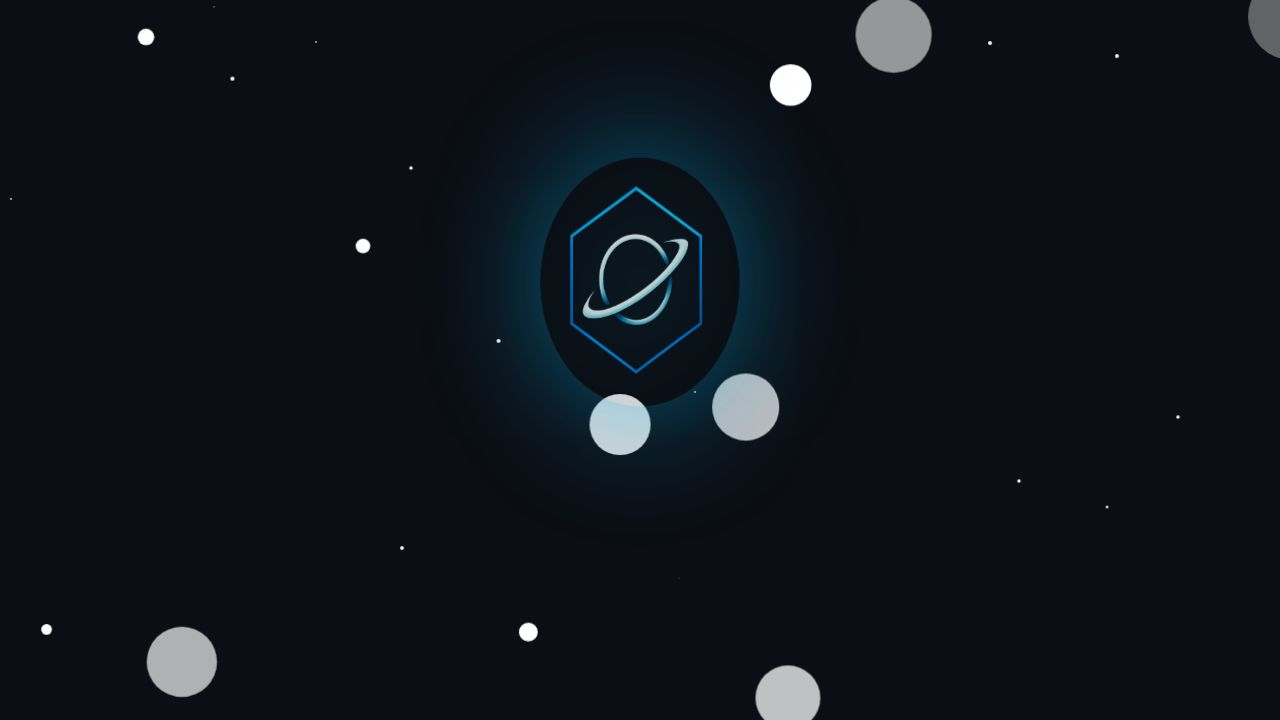
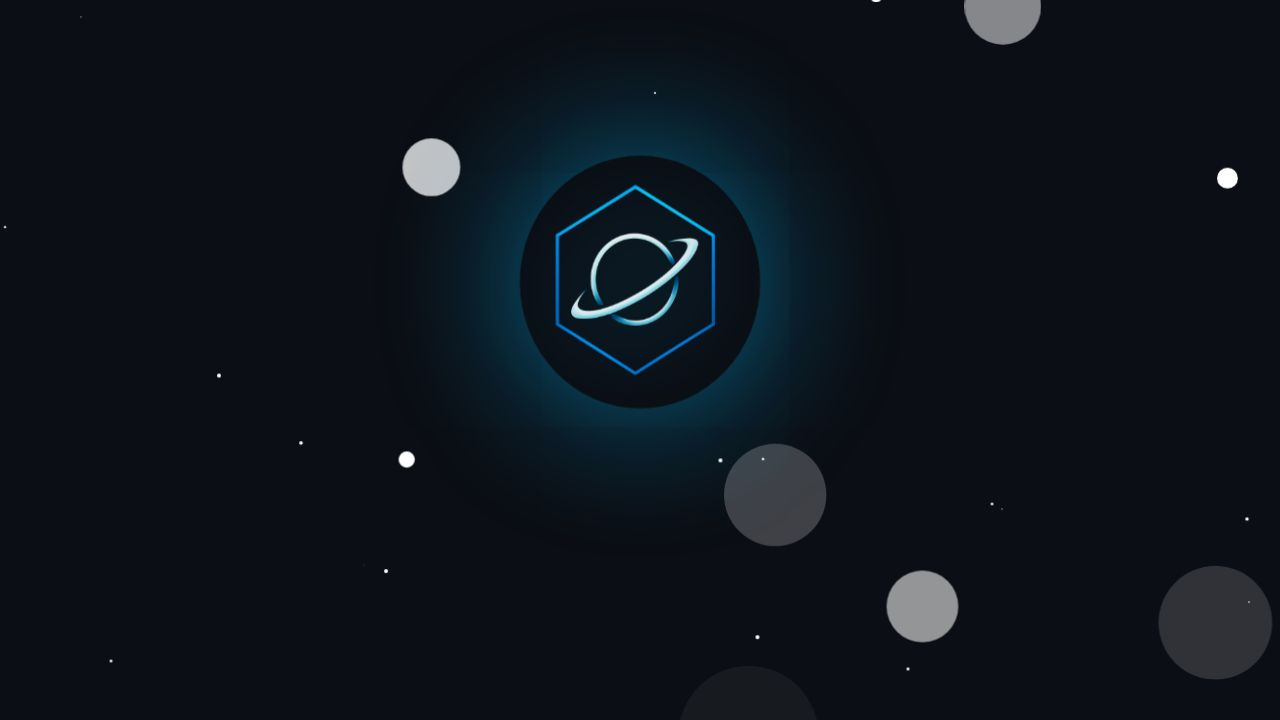
Enhance space game with varied obstacles, ship customizations, and improved controls
Refactor SpaceGame component to include randomized obstacles from 15 variants, custom ship colors, and optimized mouse reactivity.

Replit-Commit-Author: Agent
Replit-Commit-Session-Id: fbb635ff-35aa-4961-b565-d865ef3c1b3d
Replit-Commit-Checkpoint-Type: full_checkpoint
Replit-Commit-Event-Id: 4b2fb642-a194-4f26-9398-35119e59dca0
Replit-Commit-Screenshot-Url: https://storage.googleapis.com/screenshot-production-us-central1/d4f81865-4d0e-47a2-a652-d4a2a96cce49/fbb635ff-35aa-4961-b565-d865ef3c1b3d/PM9tNth
Replit-Helium-Checkpoint-Created: true

diff --git a/client/src/components/SpaceGame.tsx b/client/src/components/SpaceGame.tsx
@@ -1,31 +1,56 @@
 import { useState, useEffect, useRef, useCallback } from "react";
 import { motion, AnimatePresence } from "framer-motion";
-import { Gamepad2, Trophy, Send, List } from "lucide-react";
+import { Gamepad2, Trophy, Send } from "lucide-react";
 import { Button } from "@/components/ui/button";
 import { Link } from "wouter";
 
-interface Asteroid {
+interface Obstacle {
   id: number;
   x: number;
   y: number;
   size: number;
   speed: number;
+  variant: number;
 }
 
-interface Star {
-  x: number;
-  y: number;
-  speed: number;
-  size: number;
-}
+const SHIP_VARIANTS = [
+  { body: "#00BFFF", accent: "#0080FF", glow: "rgba(0,191,255,0.8)" },
+  { body: "#FF6B6B", accent: "#FF4444", glow: "rgba(255,107,107,0.8)" },
+  { body: "#4ADE80", accent: "#22C55E", glow: "rgba(74,222,128,0.8)" },
+  { body: "#F59E0B", accent: "#D97706", glow: "rgba(245,158,11,0.8)" },
+  { body: "#A855F7", accent: "#9333EA", glow: "rgba(168,85,247,0.8)" },
+  { body: "#EC4899", accent: "#DB2777", glow: "rgba(236,72,153,0.8)" },
+  { body: "#14B8A6", accent: "#0D9488", glow: "rgba(20,184,166,0.8)" },
+  { body: "#EF4444", accent: "#B91C1C", glow: "rgba(239,68,68,0.8)" },
+  { body: "#8B5CF6", accent: "#7C3AED", glow: "rgba(139,92,246,0.8)" },
+  { body: "#06B6D4", accent: "#0891B2", glow: "rgba(6,182,212,0.8)" },
+  { body: "#F97316", accent: "#EA580C", glow: "rgba(249,115,22,0.8)" },
+  { body: "#84CC16", accent: "#65A30D", glow: "rgba(132,204,22,0.8)" },
+  { body: "#E879F9", accent: "#D946EF", glow: "rgba(232,121,249,0.8)" },
+  { body: "#FBBF24", accent: "#F59E0B", glow: "rgba(251,191,36,0.8)" },
+  { body: "#38BDF8", accent: "#0EA5E9", glow: "rgba(56,189,248,0.8)" },
+];
+
+const OBSTACLE_VARIANTS = [
+  { from: "#6B7280", to: "#374151", name: "asteroid" },
+  { from: "#EF4444", to: "#7F1D1D", name: "mars" },
+  { from: "#3B82F6", to: "#1E3A8A", name: "neptune" },
+  { from: "#F59E0B", to: "#78350F", name: "venus" },
+  { from: "#8B5CF6", to: "#4C1D95", name: "purple" },
+  { from: "#10B981", to: "#064E3B", name: "earth" },
+  { from: "#EC4899", to: "#831843", name: "pink" },
+  { from: "#6366F1", to: "#312E81", name: "indigo" },
+  { from: "#F97316", to: "#7C2D12", name: "orange" },
+  { from: "#14B8A6", to: "#134E4A", name: "teal" },
+];
 
 export default function SpaceGame() {
   const [isPlaying, setIsPlaying] = useState(false);
   const [isGameOver, setIsGameOver] = useState(false);
   const [score, setScore] = useState(0);
   const [highScore, setHighScore] = useState(0);
-  const [asteroids, setAsteroids] = useState<Asteroid[]>([]);
-  const [stars, setStars] = useState<Star[]>([]);
+  const [obstacles, setObstacles] = useState<Obstacle[]>([]);
+  const [shipVariant, setShipVariant] = useState(0);
   const [pseudo, setPseudo] = useState("");
   const [univers, setUnivers] = useState("");
   const [isSubmitting, setIsSubmitting] = useState(false);
@@ -34,54 +59,62 @@ export default function SpaceGame() {
   const gameRef = useRef<HTMLDivElement>(null);
   const playerRef = useRef<HTMLDivElement>(null);
   const playerXRef = useRef(50);
+  const targetXRef = useRef(50);
   const animationRef = useRef<number | null>(null);
   const lastTimeRef = useRef<number>(0);
-  const asteroidIdRef = useRef(0);
+  const obstacleIdRef = useRef(0);
   const isPlayingRef = useRef(false);
+  const scoreRef = useRef(0);
 
   useEffect(() => {
     const saved = localStorage.getItem("psykoverse:highscore");
     if (saved) setHighScore(parseInt(saved));
-    
-    const initialStars = Array.from({ length: 30 }, () => ({
-      x: Math.random() * 100,
-      y: Math.random() * 100,
-      speed: 0.5 + Math.random() * 1.5,
-      size: 1 + Math.random() * 2
-    }));
-    setStars(initialStars);
   }, []);
 
-  const handleMove = useCallback((clientX: number) => {
-    if (!gameRef.current || !isPlayingRef.current) return;
-    const rect = gameRef.current.getBoundingClientRect();
-    const x = ((clientX - rect.left) / rect.width) * 100;
-    playerXRef.current = Math.max(5, Math.min(95, x));
+  const updatePlayerPosition = useCallback(() => {
+    if (!isPlayingRef.current) return;
+    const diff = targetXRef.current - playerXRef.current;
+    playerXRef.current += diff * 0.5;
     if (playerRef.current) {
       playerRef.current.style.left = `${playerXRef.current}%`;
     }
   }, []);
 
   useEffect(() => {
-    const handleGlobalMouseMove = (e: MouseEvent) => {
-      if (isPlayingRef.current) {
-        handleMove(e.clientX);
-      }
+    const handlePointerMove = (e: PointerEvent) => {
+      if (!gameRef.current || !isPlayingRef.current) return;
+      const rect = gameRef.current.getBoundingClientRect();
+      const x = ((e.clientX - rect.left) / rect.width) * 100;
+      targetXRef.current = Math.max(5, Math.min(95, x));
     };
-    
-    window.addEventListener("mousemove", handleGlobalMouseMove, { passive: true });
-    return () => window.removeEventListener("mousemove", handleGlobalMouseMove);
-  }, [handleMove]);
 
-  const handleMouseMove = (e: React.MouseEvent) => handleMove(e.clientX);
+    const handleMouseMove = (e: MouseEvent) => {
+      if (!gameRef.current || !isPlayingRef.current) return;
+      const rect = gameRef.current.getBoundingClientRect();
+      const x = ((e.clientX - rect.left) / rect.width) * 100;
+      targetXRef.current = Math.max(5, Math.min(95, x));
+    };
+
+    window.addEventListener("pointermove", handlePointerMove, { passive: true });
+    window.addEventListener("mousemove", handleMouseMove, { passive: true });
+    
+    return () => {
+      window.removeEventListener("pointermove", handlePointerMove);
+      window.removeEventListener("mousemove", handleMouseMove);
+    };
+  }, []);
 
   const startGame = () => {
+    const randomShip = Math.floor(Math.random() * SHIP_VARIANTS.length);
+    setShipVariant(randomShip);
     setIsPlaying(true);
     isPlayingRef.current = true;
     setIsGameOver(false);
     setScore(0);
-    setAsteroids([]);
+    scoreRef.current = 0;
+    setObstacles([]);
     playerXRef.current = 50;
+    targetXRef.current = 50;
     if (playerRef.current) {
       playerRef.current.style.left = "50%";
     }
@@ -95,15 +128,13 @@ export default function SpaceGame() {
     setIsPlaying(false);
     isPlayingRef.current = false;
     setIsGameOver(true);
-    setScore(prev => {
-      const finalScore = prev;
-      const currentHigh = parseInt(localStorage.getItem("psykoverse:highscore") || "0");
-      if (finalScore > currentHigh) {
-        setHighScore(finalScore);
-        localStorage.setItem("psykoverse:highscore", finalScore.toString());
-      }
-      return finalScore;
-    });
+    const finalScore = scoreRef.current;
+    setScore(finalScore);
+    const currentHigh = parseInt(localStorage.getItem("psykoverse:highscore") || "0");
+    if (finalScore > currentHigh) {
+      setHighScore(finalScore);
+      localStorage.setItem("psykoverse:highscore", finalScore.toString());
+    }
     if (animationRef.current) {
       cancelAnimationFrame(animationRef.current);
     }
@@ -134,35 +165,33 @@ export default function SpaceGame() {
       
       if (delta > 16) {
         lastTimeRef.current = time;
+        scoreRef.current += 1;
+        setScore(scoreRef.current);
         
-        setScore(s => s + 1);
-        
-        setStars(prev => prev.map(star => ({
-          ...star,
-          y: star.y + star.speed > 100 ? 0 : star.y + star.speed
-        })));
+        updatePlayerPosition();
 
-        setAsteroids(prev => {
+        setObstacles(prev => {
           const updated = prev
-            .map(a => ({ ...a, y: a.y + a.speed }))
-            .filter(a => a.y < 110);
+            .map(o => ({ ...o, y: o.y + o.speed }))
+            .filter(o => o.y < 110);
           
-          if (Math.random() < 0.015 + Math.min(score / 8000, 0.03)) {
+          if (Math.random() < 0.018 + Math.min(scoreRef.current / 10000, 0.025)) {
             updated.push({
-              id: asteroidIdRef.current++,
-              x: Math.random() * 90 + 5,
+              id: obstacleIdRef.current++,
+              x: Math.random() * 85 + 7.5,
               y: -10,
-              size: 12 + Math.random() * 15,
-              speed: 0.8 + Math.random() * 1.2 + Math.min(score / 2000, 1.5)
+              size: 14 + Math.random() * 18,
+              speed: 0.7 + Math.random() * 1.0 + Math.min(scoreRef.current / 2500, 1.2),
+              variant: Math.floor(Math.random() * OBSTACLE_VARIANTS.length)
             });
           }
           
           const playerY = 85;
           const playerSize = 8;
-          for (const a of updated) {
-            const dx = Math.abs(a.x - playerXRef.current);
-            const dy = Math.abs(a.y - playerY);
-            const minDist = (a.size / 2 + playerSize) * 0.4;
+          for (const o of updated) {
+            const dx = Math.abs(o.x - playerXRef.current);
+            const dy = Math.abs(o.y - playerY);
+            const minDist = (o.size / 2 + playerSize) * 0.35;
             if (dx < minDist && dy < minDist) {
               endGame();
               return [];
@@ -180,7 +209,9 @@ export default function SpaceGame() {
     return () => {
       if (animationRef.current) cancelAnimationFrame(animationRef.current);
     };
-  }, [isPlaying, endGame, score]);
+  }, [isPlaying, endGame, updatePlayerPosition]);
+
+  const currentShip = SHIP_VARIANTS[shipVariant];
 
   return (
     <div className="hidden lg:block">
@@ -190,8 +221,13 @@ export default function SpaceGame() {
           <span className="font-display font-bold text-white/80 text-xs">Space Escape</span>
         </div>
         <div className="flex items-center gap-3 text-xs">
-          <Link href="/classement" className="text-gray-400 hover:text-primary transition-colors" title="Classement">
-            <List className="w-4 h-4" />
+          <Link 
+            href="/classement" 
+            className="bg-yellow-500/20 text-yellow-400 hover:bg-yellow-500/30 px-2 py-1 rounded text-xs font-medium transition-colors flex items-center gap-1"
+            data-testid="link-leaderboard"
+          >
+            <Trophy className="w-3 h-3" />
+            Top
           </Link>
           <span className="text-primary font-bold">{score}</span>
           <span className="text-yellow-400 flex items-center gap-1">
@@ -202,50 +238,59 @@ export default function SpaceGame() {
 
       <div
         ref={gameRef}
-        className="relative h-[320px] bg-black/20 rounded-2xl overflow-hidden cursor-none select-none border border-white/10"
-        onMouseMove={handleMouseMove}
-        onClick={() => !isPlaying && !isGameOver && startGame()}
+        className="relative h-[320px] rounded-2xl overflow-hidden cursor-none select-none border border-white/10"
+        style={{
+          background: "radial-gradient(ellipse at center, #0a0a1a 0%, #050510 100%)"
+        }}
+        onPointerDown={(e) => {
+          if (!isPlaying && !isGameOver) {
+            startGame();
+          }
+          (e.target as HTMLElement).setPointerCapture?.(e.pointerId);
+        }}
       >
-        {stars.map((star, i) => (
-          <div
-            key={i}
-            className="absolute bg-white rounded-full opacity-60"
-            style={{
-              left: `${star.x}%`,
-              top: `${star.y}%`,
-              width: star.size,
-              height: star.size,
-            }}
-          />
-        ))}
-
         {isPlaying && (
           <>
             <div
               ref={playerRef}
-              className="absolute will-change-transform"
+              className="absolute will-change-transform pointer-events-none"
               style={{ left: "50%", top: "85%", transform: "translate(-50%, -50%)" }}
             >
               <div className="relative">
-                <div className="w-0 h-0 border-l-[8px] border-r-[8px] border-b-[20px] border-l-transparent border-r-transparent border-b-primary drop-shadow-[0_0_10px_rgba(0,191,255,0.8)]" />
-                <div className="absolute -bottom-1 left-1/2 -translate-x-1/2 w-2 h-4 bg-gradient-to-b from-orange-400 to-transparent opacity-80 animate-pulse" />
+                <div 
+                  className="w-0 h-0 border-l-[8px] border-r-[8px] border-b-[20px] border-l-transparent border-r-transparent"
+                  style={{ 
+                    borderBottomColor: currentShip.body,
+                    filter: `drop-shadow(0 0 10px ${currentShip.glow})`
+                  }}
+                />
+                <div 
+                  className="absolute -bottom-1 left-1/2 -translate-x-1/2 w-2 h-4 opacity-80 animate-pulse"
+                  style={{
+                    background: `linear-gradient(to bottom, ${currentShip.accent}, transparent)`
+                  }}
+                />
               </div>
             </div>
 
-            {asteroids.map(asteroid => (
-              <div
-                key={asteroid.id}
-                className="absolute bg-gradient-to-br from-gray-500 to-gray-700 rounded-full shadow-lg will-change-transform"
-                style={{
-                  left: `${asteroid.x}%`,
-                  top: `${asteroid.y}%`,
-                  width: asteroid.size,
-                  height: asteroid.size,
-                  transform: "translate(-50%, -50%)",
-                  boxShadow: "inset -3px -3px 6px rgba(0,0,0,0.5), inset 2px 2px 4px rgba(255,255,255,0.1)"
-                }}
-              />
-            ))}
+            {obstacles.map(obstacle => {
+              const v = OBSTACLE_VARIANTS[obstacle.variant];
+              return (
+                <div
+                  key={obstacle.id}
+                  className="absolute rounded-full will-change-transform pointer-events-none"
+                  style={{
+                    left: `${obstacle.x}%`,
+                    top: `${obstacle.y}%`,
+                    width: obstacle.size,
+                    height: obstacle.size,
+                    transform: "translate(-50%, -50%)",
+                    background: `radial-gradient(circle at 30% 30%, ${v.from}, ${v.to})`,
+                    boxShadow: `inset -3px -3px 8px rgba(0,0,0,0.6), inset 2px 2px 4px rgba(255,255,255,0.15), 0 0 ${obstacle.size/3}px ${v.from}40`
+                  }}
+                />
+              );
+            })}
           </>
         )}
 
@@ -255,11 +300,18 @@ export default function SpaceGame() {
               initial={{ opacity: 0 }}
               animate={{ opacity: 1 }}
               exit={{ opacity: 0 }}
-              className="absolute inset-0 flex flex-col items-center justify-center bg-black/30"
+              className="absolute inset-0 flex flex-col items-center justify-center bg-black/40"
             >
               <Gamepad2 className="w-10 h-10 text-primary mb-3 drop-shadow-[0_0_10px_rgba(0,191,255,0.5)]" />
               <p className="text-white font-bold text-sm drop-shadow-lg">Cliquez pour jouer</p>
-              <p className="text-gray-300 text-xs">Bougez la souris</p>
+              <p className="text-gray-300 text-xs mb-3">Évitez les planètes</p>
+              <Link 
+                href="/classement"
+                className="bg-yellow-500/20 hover:bg-yellow-500/30 text-yellow-400 px-4 py-2 rounded-lg text-sm font-medium transition-colors flex items-center gap-2"
+              >
+                <Trophy className="w-4 h-4" />
+                Voir le classement
+              </Link>
             </motion.div>
           )}
 
@@ -267,7 +319,7 @@ export default function SpaceGame() {
             <motion.div
               initial={{ opacity: 0, scale: 0.9 }}
               animate={{ opacity: 1, scale: 1 }}
-              className="absolute inset-0 flex flex-col items-center justify-center bg-black/50 p-4"
+              className="absolute inset-0 flex flex-col items-center justify-center bg-black/60 p-4"
             >
               <div className="text-2xl mb-1">💥</div>
               <h4 className="font-display text-lg font-bold text-white">Game Over</h4>
